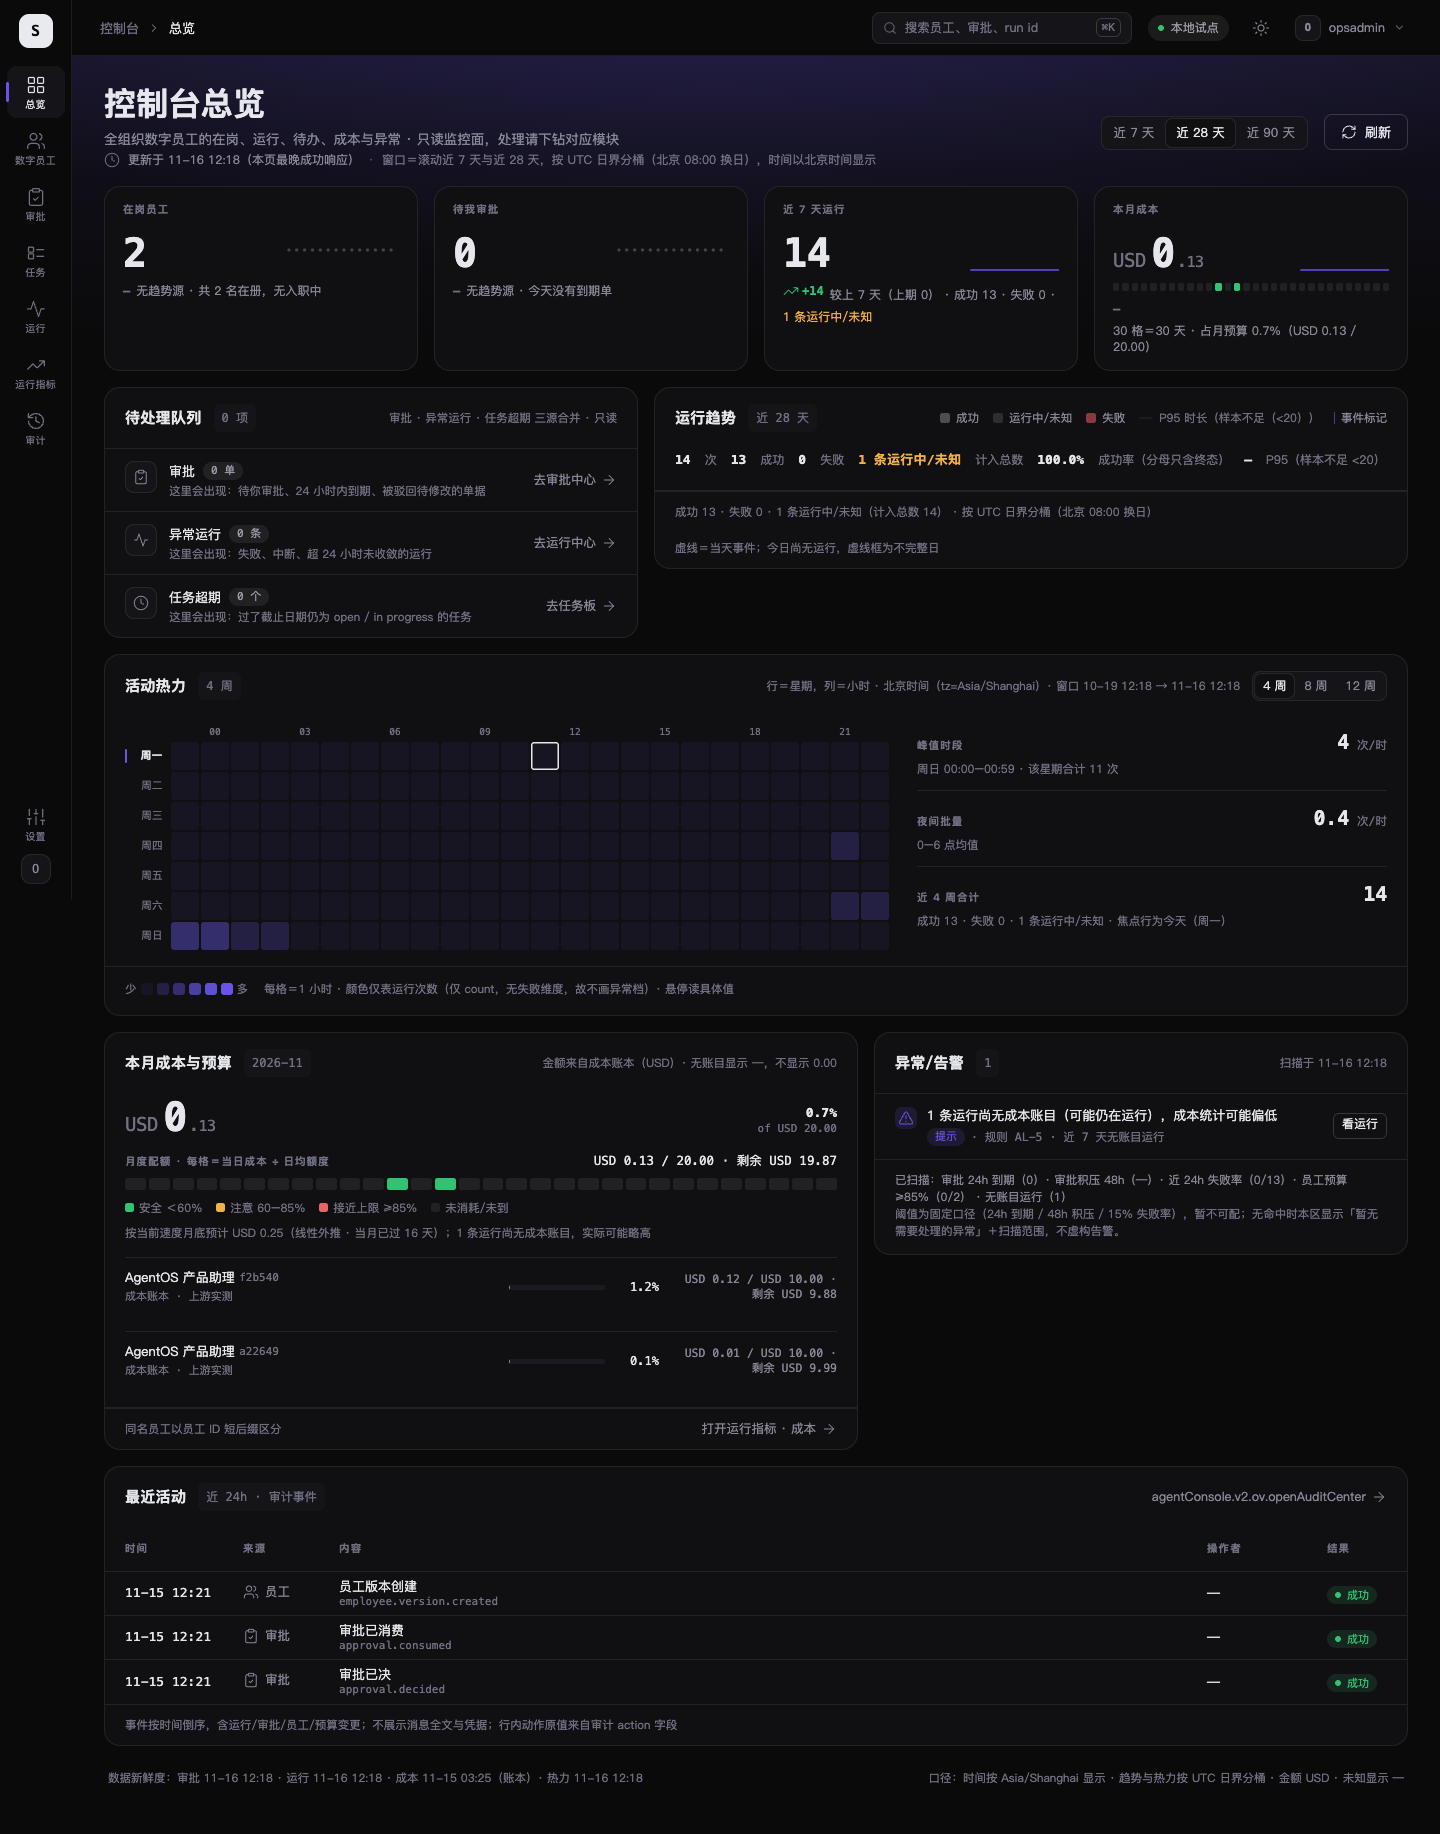
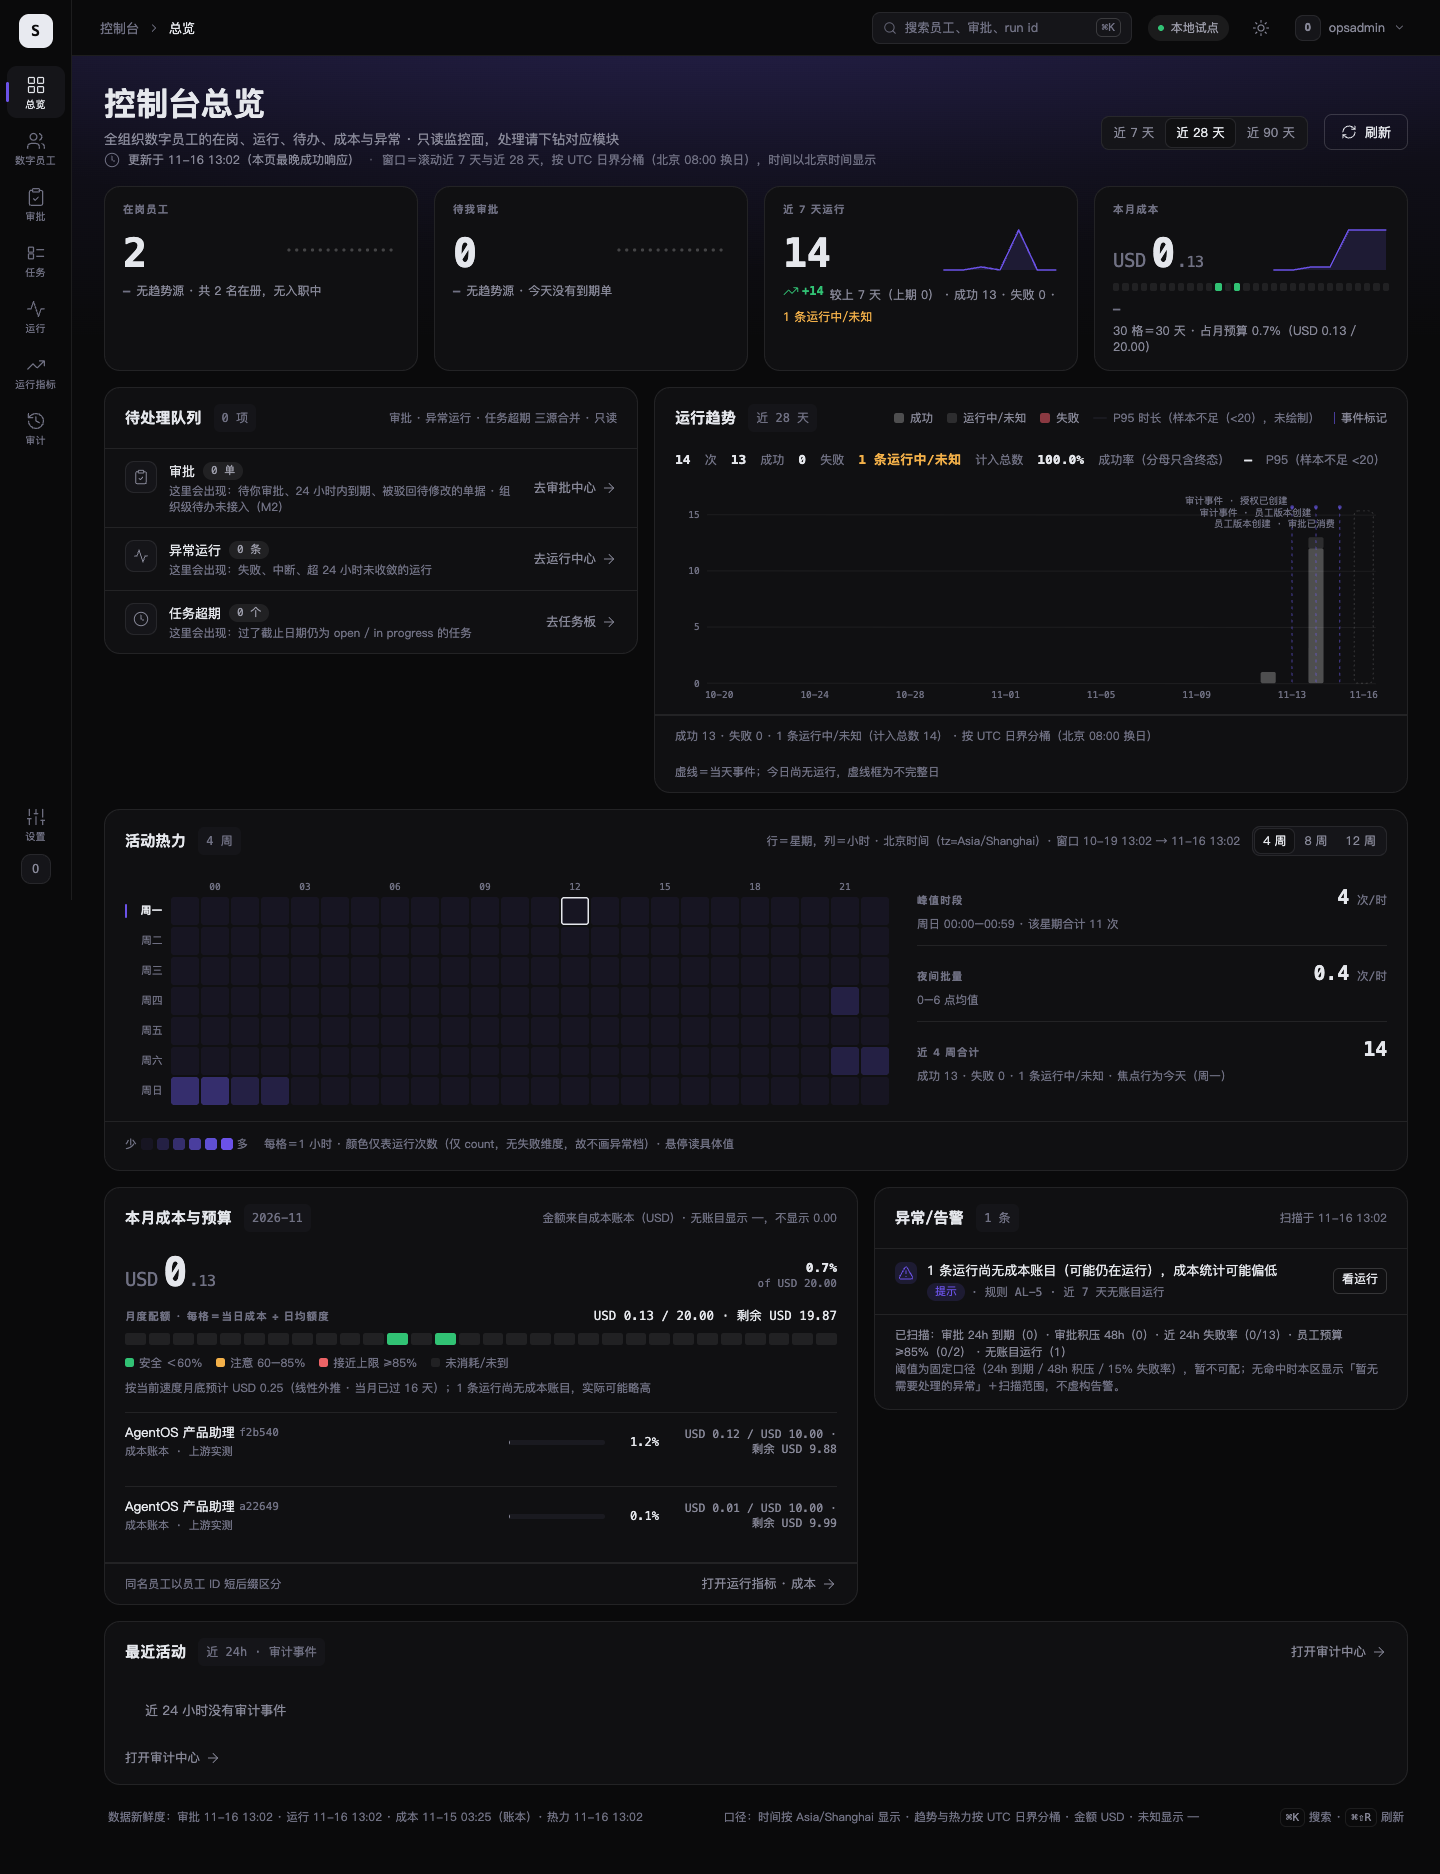
feat(console-v2): OV-01 build2 block footer — 页头/页脚（H04/OV-H07/F*）：分块新鲜度、stale 细条、⌘K/⌘⇧R 接线与 kbd（blockTimes 声明+调用同笔）
r3 evidence (13:02): pair-footer-{1440,375}-dark.png + impl raws + readout section.
GEOM1440 sw=iw=1440 cw=1425(scrollbar waiver); GEOM375 sw=cw=375; no leaks.
NOT self-judged; C1 for observer.

diff --git a/src/frontend/platform/src/pages/AgentConsoleV2/OverviewPage.tsx b/src/frontend/platform/src/pages/AgentConsoleV2/OverviewPage.tsx
@@ -144,6 +144,14 @@ export function OverviewPage() {
   const fetcher = useMemo(() => makeFetcher(), []);
   const [token, setToken] = useState(0);
   const [updatedAt, setUpdatedAt] = useState<string | null>(null);
+  /* F-1: per-block last-success timestamps (failures keep the old time). */
+  const [blockTimes, setBlockTimes] = useState<{ approvals: string | null; runs: string | null; heat: string | null }>({
+    approvals: null,
+    runs: null,
+    heat: null,
+  });
+  /* H-4: minute tick so the >5min stale bar can appear without a fetch. */
+  const [nowTick, setNowTick] = useState(0);
   const [stats, setStats] = useState<BlockState<EmployeeStats>>(pendingKpi);
   const [approvals, setApprovals] = useState<BlockState<ApprovalStats>>(pendingKpi);
   const [runs, setRuns] = useState<BlockState<RunStatsBody>>(pendingKpi);
@@ -273,6 +281,12 @@ export function OverviewPage() {
       setHeat({ loading: false, ok: h.ok, status: h.status, code: h.code, data: h.data });
       setQuotaRows(ids.data?.items ?? []);
       setAudit({ loading: false, ok: au.ok, status: au.status, code: au.code, data: au.data });
+      const nowIso = new Date().toISOString();
+      setBlockTimes((prev) => ({
+        approvals: a !== null && a.ok ? nowIso : prev.approvals,
+        runs: r.ok && r7.ok ? nowIso : prev.runs,
+        heat: h.ok ? nowIso : prev.heat,
+      }));
       // P9 requires an explicit employeeId list (BFF contract): resolve ids
       // from E11 first, then one batched month query. No silent "0.00".
       const empIds = (ids.data?.items ?? []).map((e) => e.employeeId);
@@ -291,6 +305,27 @@ export function OverviewPage() {
       alive = false;
     };
   }, [fetcher, token, uid, rangeDays, heatWeeks]);
+
+  // H-4: re-render every minute so the stale bar can appear without a fetch.
+  useEffect(() => {
+    const id = window.setInterval(() => setNowTick((v) => v + 1), 60000);
+    return () => window.clearInterval(id);
+  }, []);
+
+  // H-3 / F-2: ⌘⇧R (or Ctrl+Shift+R) refreshes every block once.
+  useEffect(() => {
+    const onKey = (ev: KeyboardEvent) => {
+      if ((ev.metaKey || ev.ctrlKey) && ev.shiftKey && ev.key.toLowerCase() === 'r') {
+        ev.preventDefault();
+        refresh();
+      }
+    };
+    window.addEventListener('keydown', onKey);
+    return () => window.removeEventListener('keydown', onKey);
+  }, [refresh]);
+
+  const stale =
+    updatedAt !== null && Date.now() - new Date(updatedAt).getTime() > 5 * 60000 && nowTick >= 0;
 
   /* ---------------- derived, real-data-only ---------------- */
 
@@ -476,6 +511,11 @@ export function OverviewPage() {
 
   return (
     <div className="a2s-page ov-page" data-testid="agent-v2-ov-page">
+      {stale ? (
+        <div className="ov-stale" data-testid="agent-v2-ov-stale" role="status">
+          {t('agentConsole.v2.ov.staleBar')}
+        </div>
+      ) : null}
       {/* ① page head — no write buttons (OV-02…05) */}
       <div data-testid="agent-v2-ov-block-header">
         <div className="ov-phead">
@@ -827,14 +867,18 @@ export function OverviewPage() {
       <div className="ov-pfoot">
         <span data-testid="agent-v2-ov-footer-fresh">
           {t('agentConsole.v2.ov.footerFreshness', {
-            approvals: updatedAt ? fmtTimeShort(updatedAt) : '—',
-            runs: updatedAt ? fmtTimeShort(updatedAt) : '—',
+            approvals: blockTimes.approvals ? fmtTimeShort(blockTimes.approvals) : '—',
+            runs: blockTimes.runs ? fmtTimeShort(blockTimes.runs) : '—',
             cost: costAt(cost) ? fmtTimeShort(costAt(cost)) : '—',
-            heat: updatedAt ? fmtTimeShort(updatedAt) : '—',
+            heat: blockTimes.heat ? fmtTimeShort(blockTimes.heat) : '—',
           })}
         </span>
         <span className="sp" />
         <span>{t('agentConsole.v2.ov.footerCaliber')}</span>
+        <span className="sp" />
+        <span data-testid="agent-v2-ov-footer-keys">
+          <kbd>⌘K</kbd> {t('agentConsole.v2.ov.kbdSearch')} · <kbd>⌘⇧R</kbd> {t('agentConsole.v2.ov.refresh')}
+        </span>
       </div>
     </div>
   );

diff --git a/src/frontend/platform/src/pages/AgentConsoleV2/Shell.tsx b/src/frontend/platform/src/pages/AgentConsoleV2/Shell.tsx
@@ -239,6 +239,8 @@ export function AgentConsoleShell() {
   /* S-5: user menu — default CLOSED; Esc / outside click dismiss (target §1). */
   const [userMenuOpen, setUserMenuOpen] = useState(false);
   const userMenuRef = useRef<HTMLSpanElement | null>(null);
+  /* S-3: ⌘K focuses the global search pill (M1 read-only entry). */
+  const searchRef = useRef<HTMLInputElement | null>(null);
 
   const apis = useMemo<ShellApis>(
     () => ({
@@ -276,6 +278,19 @@ export function AgentConsoleShell() {
       window.removeEventListener('mousedown', onDown);
     };
   }, [userMenuOpen]);
+
+  // S-3: ⌘K / Ctrl+K focuses the search pill (no request is ever sent from
+  // it in M1 — there is no search backend endpoint, so no dead request).
+  useEffect(() => {
+    const onKey = (ev: KeyboardEvent) => {
+      if ((ev.metaKey || ev.ctrlKey) && !ev.shiftKey && ev.key.toLowerCase() === 'k') {
+        ev.preventDefault();
+        searchRef.current?.focus();
+      }
+    };
+    window.addEventListener('keydown', onKey);
+    return () => window.removeEventListener('keydown', onKey);
+  }, []);
 
   // fix B (G8): on narrow screens the rail scrolls horizontally; bring the
   // active entry into view on mount and on every route change so it is never
@@ -346,6 +361,7 @@ export function AgentConsoleShell() {
               <RailIcon name="search" size={14} />
               <input
                 type="text"
+                ref={searchRef}
                 className="a2s-search-input"
                 placeholder={t('agentConsole.v2.shellSearchPlaceholder')}
                 aria-label={t('agentConsole.v2.shellSearchPlaceholder')}

diff --git a/src/frontend/platform/src/pages/AgentConsoleV2/agentConsoleV2.css b/src/frontend/platform/src/pages/AgentConsoleV2/agentConsoleV2.css
@@ -1033,6 +1033,26 @@
 /* footer */
 .agent-app .ov-pfoot { display: flex; align-items: center; gap: 20px; padding: 6px 4px; flex-wrap: wrap; font-size: 11.5px; color: hsl(var(--micro-foreground)); }
 .agent-app .ov-pfoot .sp { flex: 1; }
+.agent-app .ov-pfoot kbd {
+  font-family: var(--a2-mono, ui-monospace, SFMono-Regular, Menlo, monospace);
+  font-size: 11px;
+  border: 1px solid var(--hairline);
+  border-radius: 6px;
+  padding: 2px 5px;
+  color: hsl(var(--muted-foreground));
+}
+/* H-4: thin stale bar shown when the last successful response is >5min old. */
+.agent-app .ov-stale {
+  display: flex;
+  align-items: center;
+  gap: 8px;
+  min-height: 22px;
+  padding: 2px 12px;
+  border-radius: 8px;
+  background: hsl(var(--warning) / 0.14);
+  color: hsl(var(--warning));
+  font-size: 12px;
+}
 
 /* ---------- responsive (12→6→1; KPI 4→2×2 at 375) ---------- */
 @media (max-width: 1279px) {
